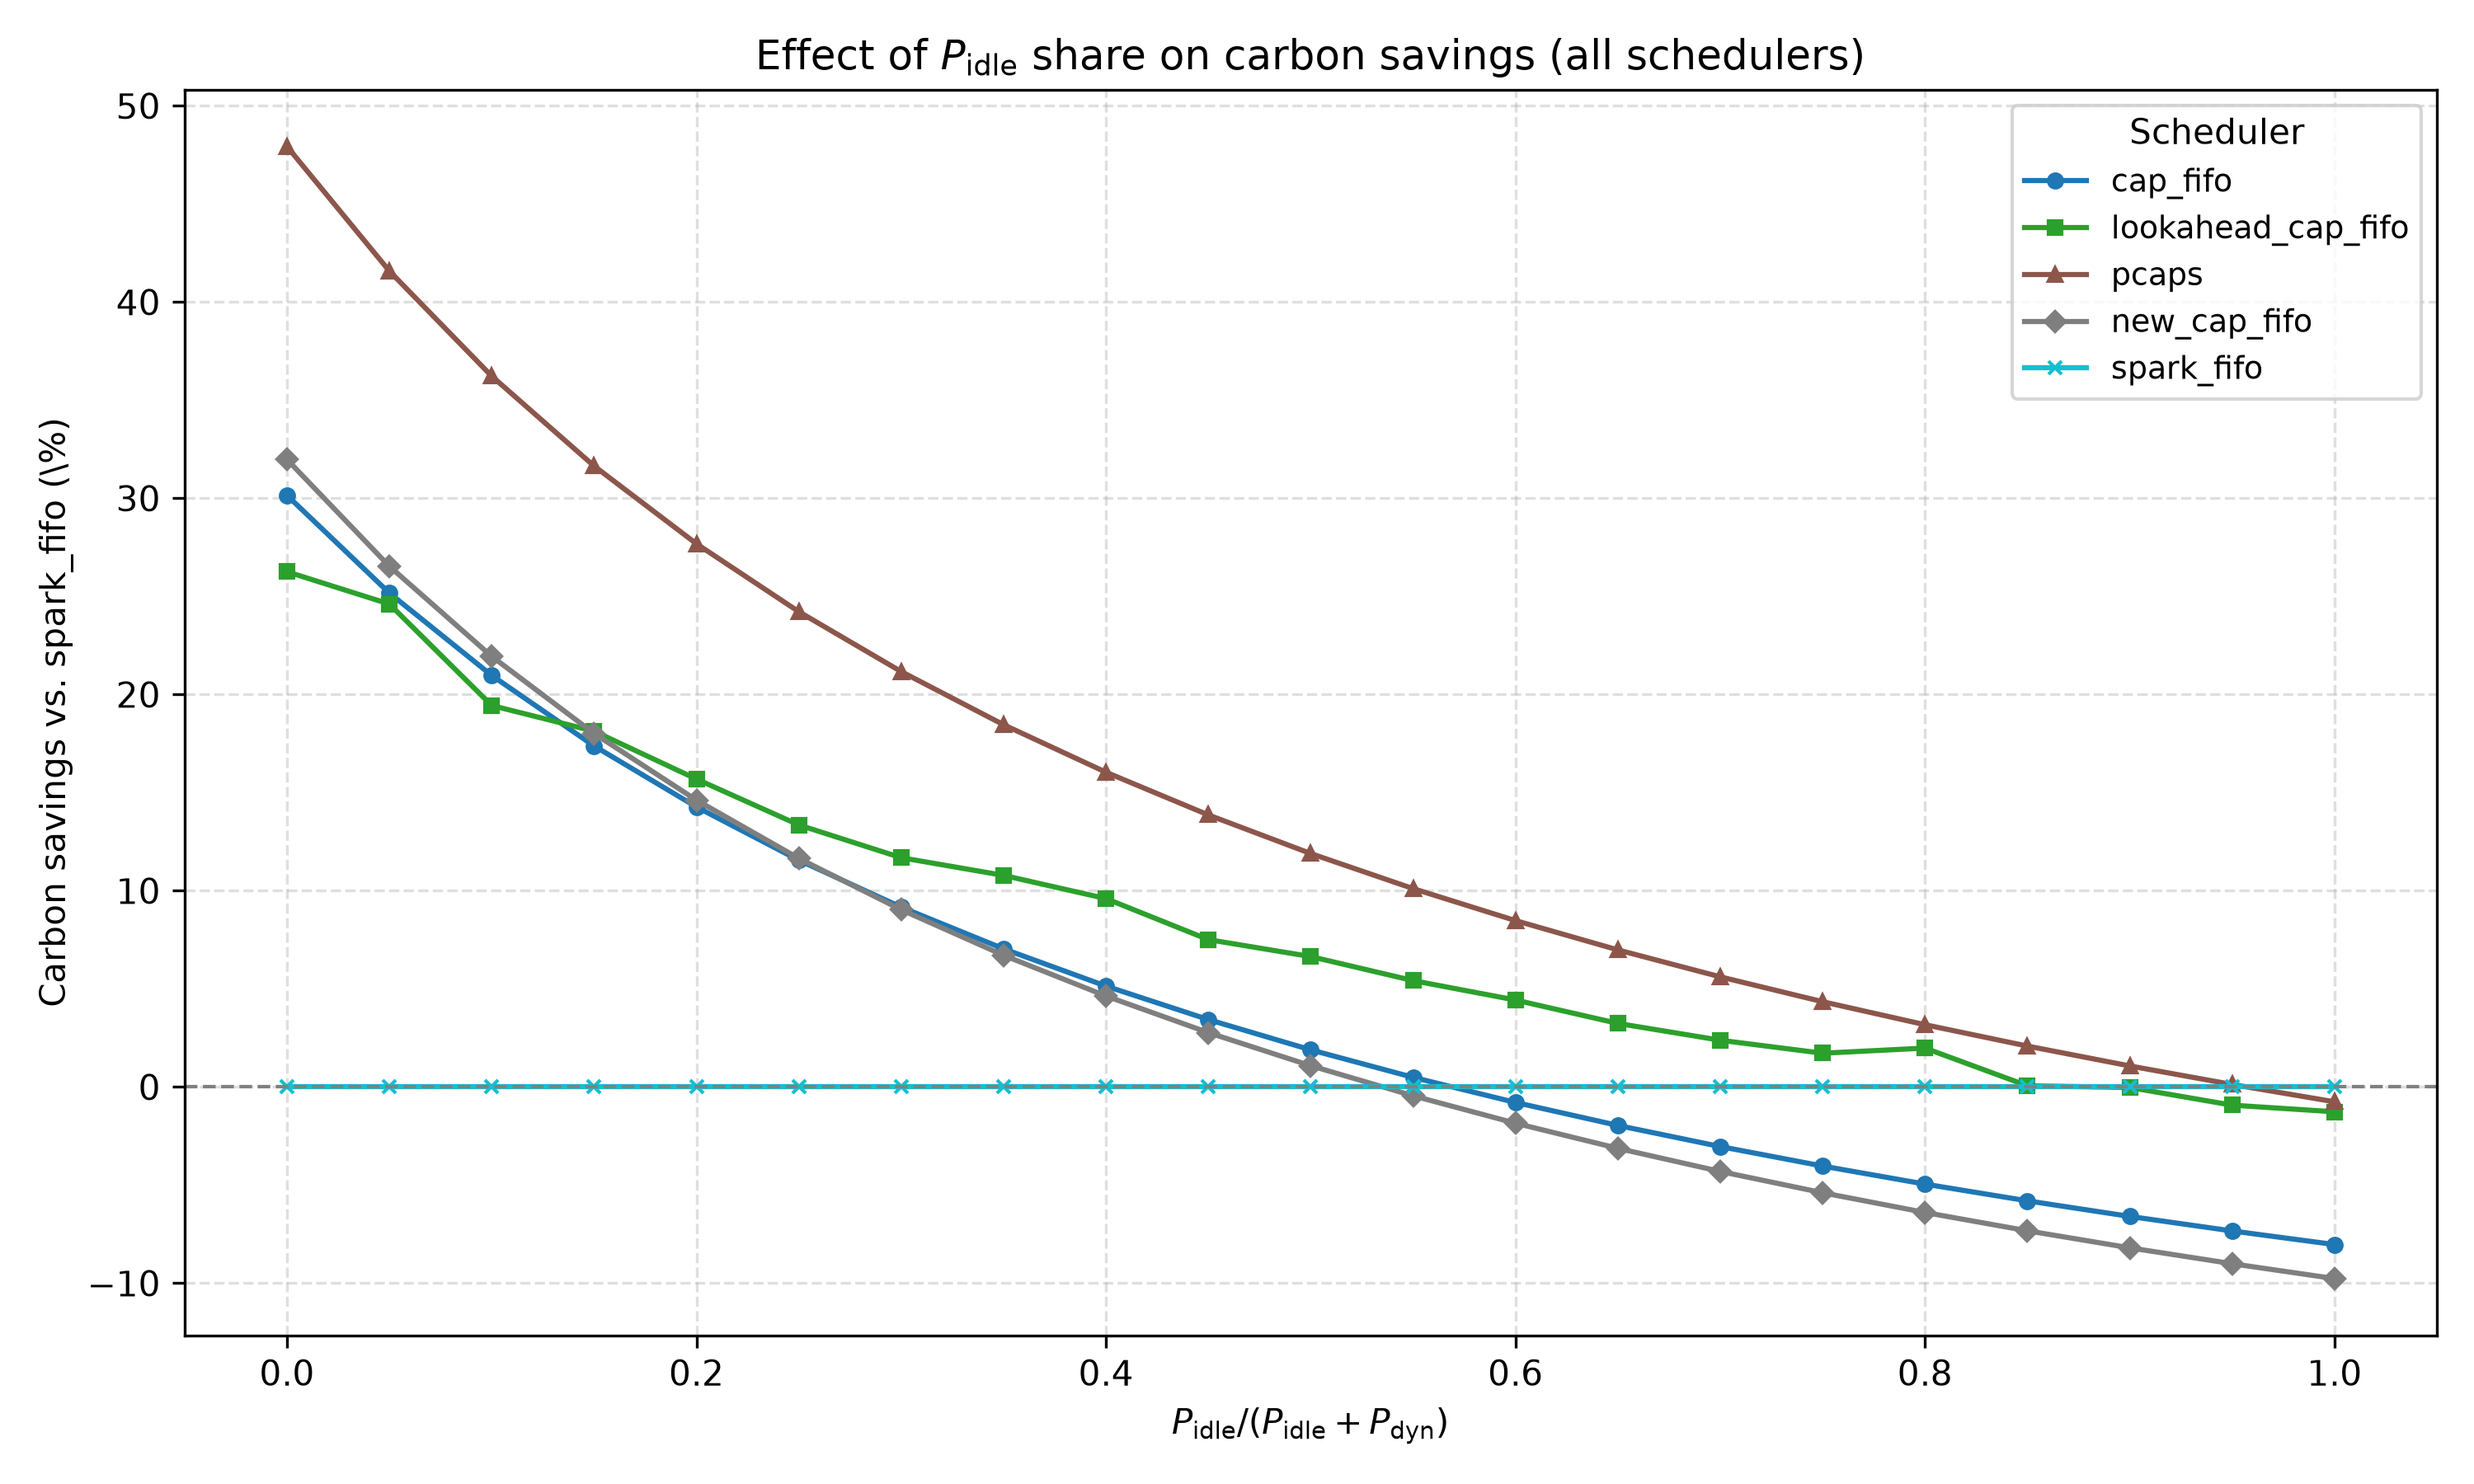
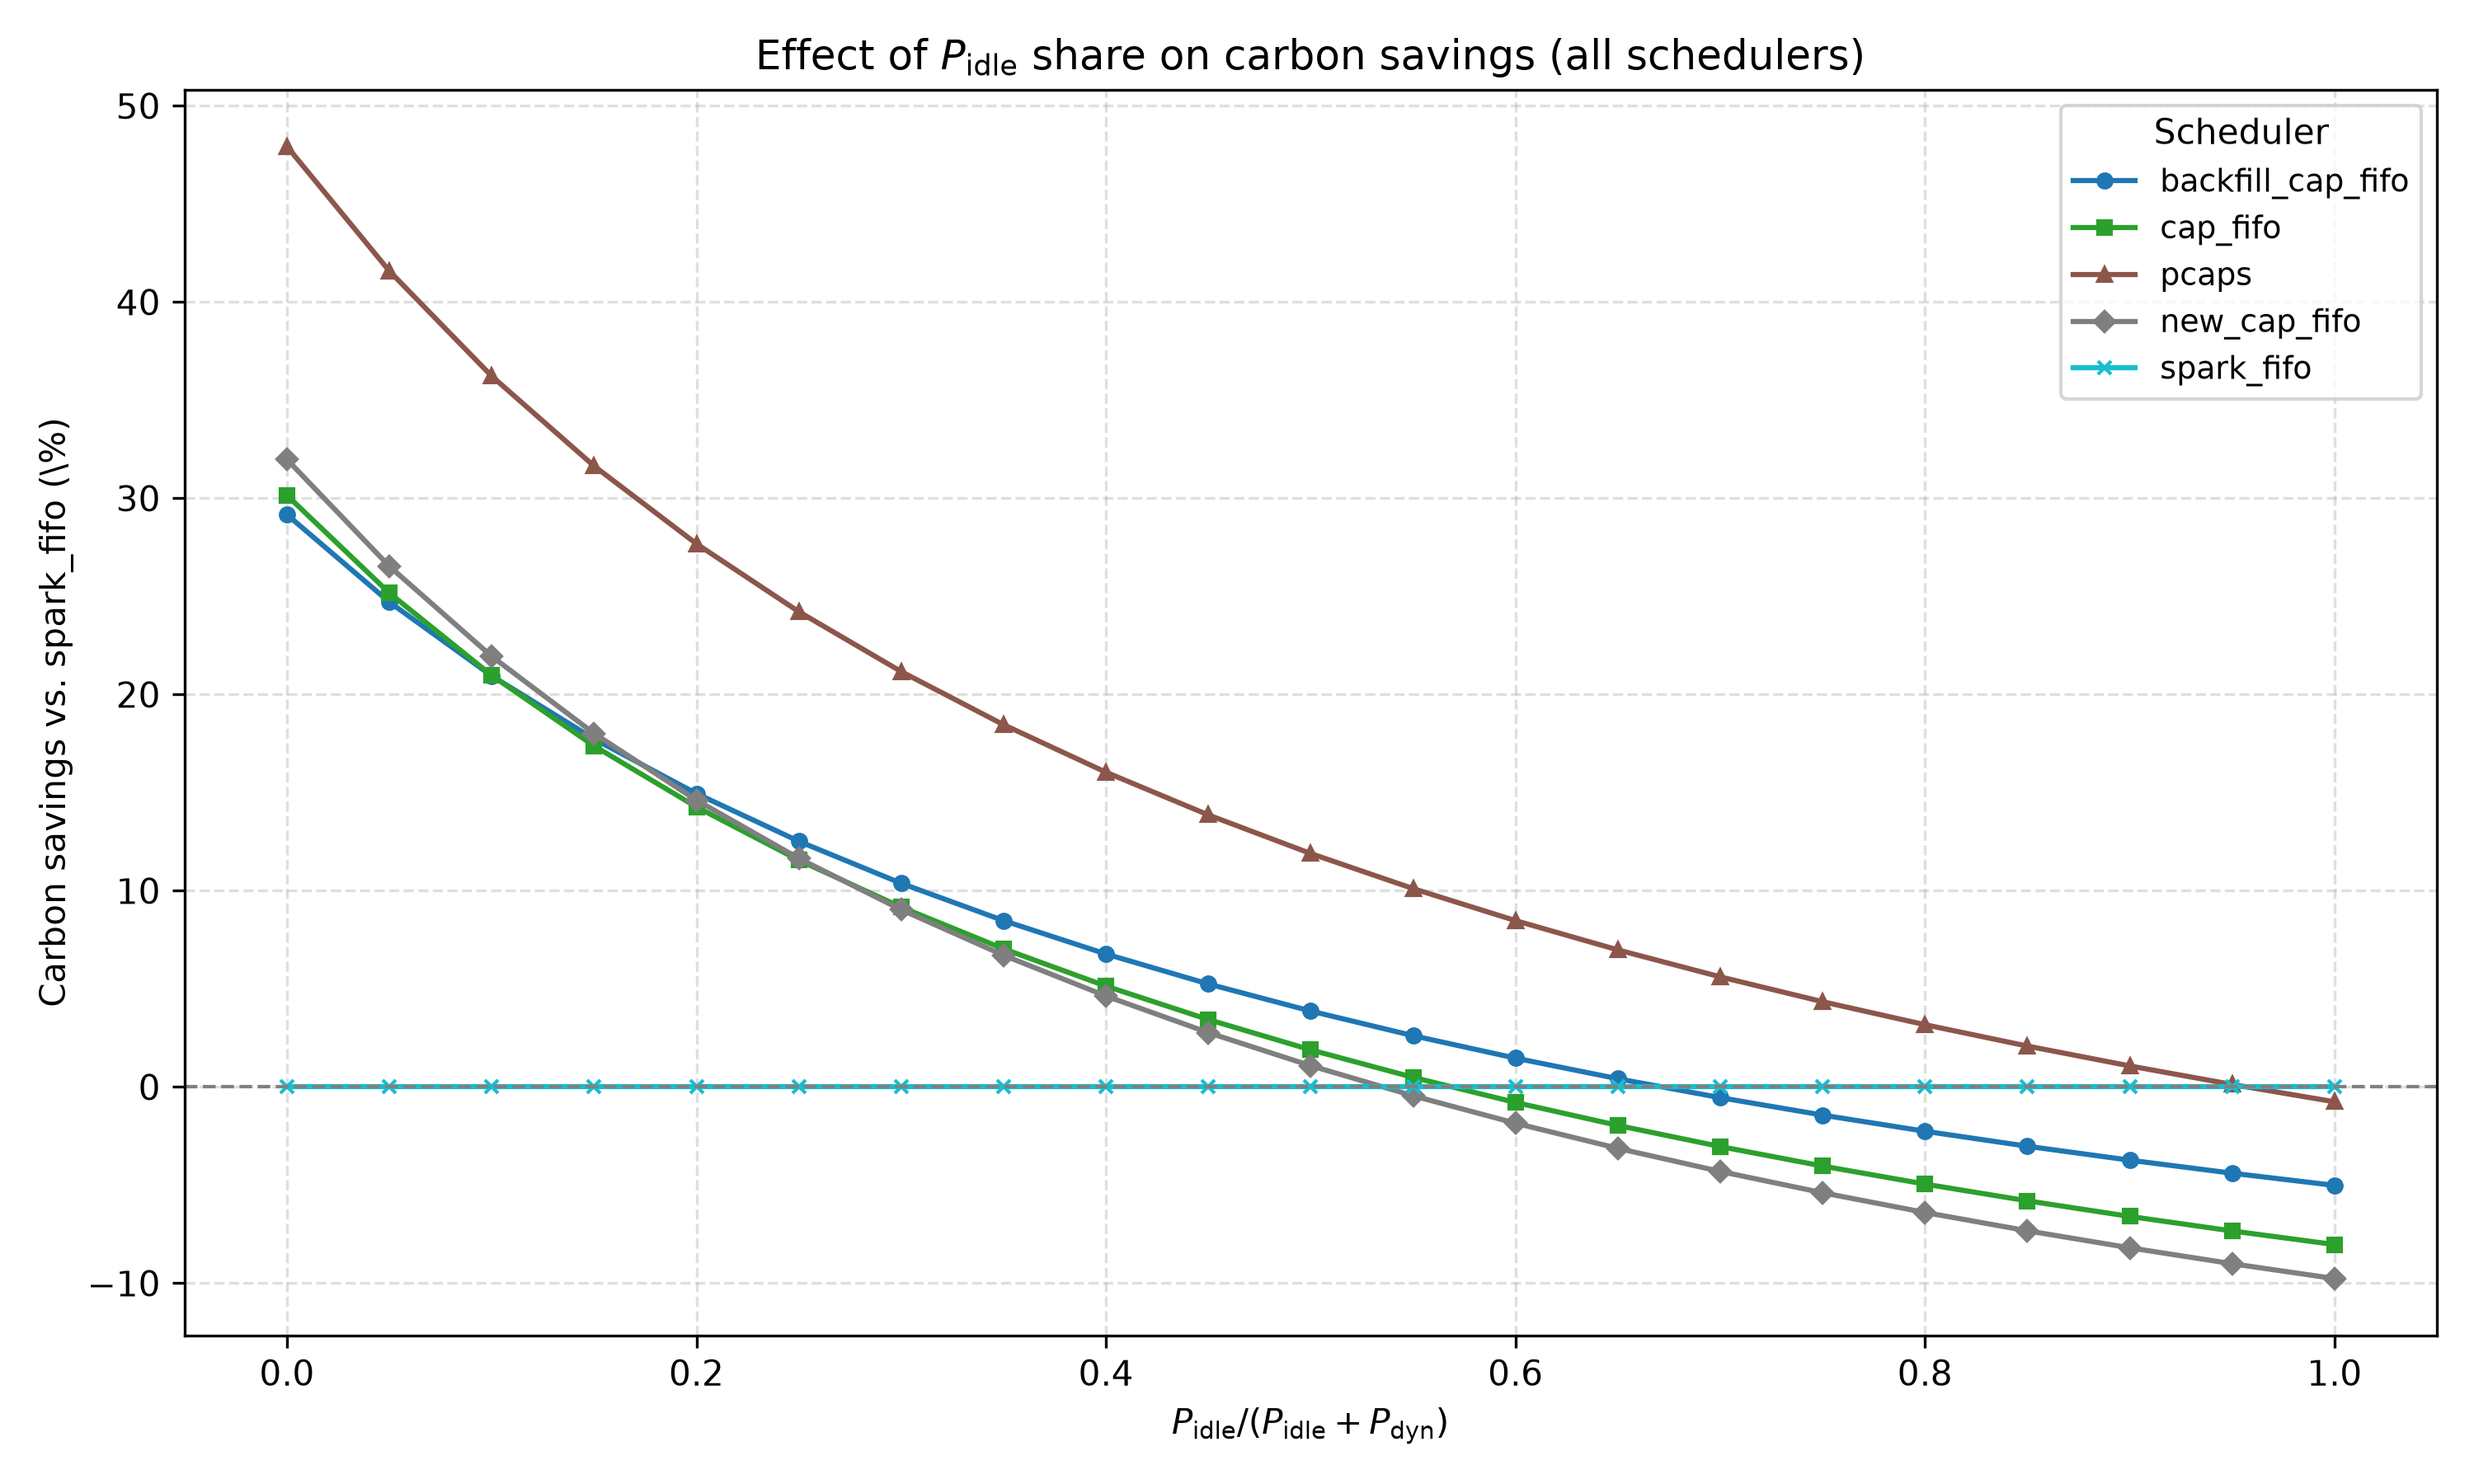
feat: power-aware FIFO backfilling

diff --git a/simulator/agents/backfill_cap_fifo_agent.py b/simulator/agents/backfill_cap_fifo_agent.py
@@ -1,0 +1,135 @@
+# backfill_cap_fifo_agent.py adds power-aware FIFO backfilling to new_cap_fifo.
+
+from agents.new_cap_fifo_agent import CarbonAgent as BaseCarbonAgent
+
+
+class BackfillCapFIFOAgent(BaseCarbonAgent):
+    """CAP FIFO that uses spare capacity for short, power-favorable jobs."""
+
+    def __init__(self, exec_cap, carbon_schedule, pidle=0.0, pdyn=1.0,
+                 max_backfill_work=120000.0, max_consecutive_waits=3):
+        super().__init__(
+            exec_cap=exec_cap,
+            carbon_schedule=carbon_schedule,
+            exec_lower_bound=min(20, exec_cap),
+        )
+        self.pidle = pidle
+        self.pdyn = pdyn
+        self.max_backfill_work = max_backfill_work
+        self.max_consecutive_waits = max_consecutive_waits
+        self.consecutive_waits = 0
+
+    def _carbon_at(self, current_time):
+        keys = sorted(self.carbon_schedule)
+        previous = [key for key in keys if key <= current_time]
+        if previous:
+            return self.carbon_schedule[previous[-1]]
+        return self.carbon_schedule[keys[0]]
+
+    def _remaining_work(self, node, exec_commit, moving_executors):
+        remaining = self.remaining_tasks(node, exec_commit, moving_executors)
+        if remaining <= 0:
+            return 0.0
+        tasks = node.tasks[node.next_task_idx:node.next_task_idx + remaining]
+        return float(sum(task.get_duration() for task in tasks))
+
+    def _first_ready_node(self, job_dag, frontier_nodes):
+        for node in job_dag.frontier_nodes:
+            if node in frontier_nodes:
+                return node
+        for node in frontier_nodes:
+            if node.job_dag == job_dag:
+                return node
+        return None
+
+    def _job_candidates(self, job_dags, frontier_nodes, exec_commit,
+                        moving_executors):
+        candidates = []
+        for index, job_dag in enumerate(job_dags):
+            if job_dag.name == 'dummy':
+                continue
+            node = self._first_ready_node(job_dag, frontier_nodes)
+            if node is None:
+                continue
+            work = self._remaining_work(node, exec_commit, moving_executors)
+            if work > 0:
+                candidates.append((index, job_dag, node, work))
+        return candidates
+
+    def _backfill_is_favorable(self, work, spare, current_time):
+        if work > self.max_backfill_work or spare <= 0:
+            return False
+        carbon = self._carbon_at(current_time)
+        # Backfill when its dynamic cost is lower than leaving the spare
+        # executors idle for an equivalent amount of work time. The factor
+        # allows high idle-power models to fill more aggressively.
+        dynamic_cost = self.pdyn * work * carbon
+        idle_avoided = self.pidle * spare * work * carbon
+        return dynamic_cost <= idle_avoided or self.pidle >= self.pdyn
+
+    def _source_action(self, node, num_source_exec):
+        available = max(int(self.last_available_cap), 0)
+        use_exec = min(num_source_exec, available)
+        if use_exec >= 1:
+            self.consecutive_waits = 0
+            return node, use_exec, False
+        if self.consecutive_waits >= self.max_consecutive_waits:
+            self.consecutive_waits = 0
+            return node, num_source_exec, False
+        self.consecutive_waits += 1
+        return None, num_source_exec, True
+
+    def get_action(self, obs):
+        job_dags, source_job, num_source_exec, \
+            frontier_nodes, executor_limits, exec_commit, \
+            moving_executors, action_map, current_time = obs
+
+        current_carbon, lower_carbon, upper_carbon = \
+            self.get_carbon_intensity(current_time)
+        self.L = lower_carbon
+        self.U = upper_carbon
+        self.exec_cap = self.compute_exec_cap(
+            current_carbon, lower_carbon, upper_carbon)
+        allocated = self.count_allocated_executors(
+            job_dags, exec_commit, moving_executors)
+        self.last_allocated_executors = allocated
+        self.last_available_cap = self.exec_cap - allocated
+
+        candidates = self._job_candidates(
+            job_dags, frontier_nodes, exec_commit, moving_executors)
+        if not candidates:
+            if job_dags and num_source_exec > 0:
+                if self.consecutive_waits >= self.max_consecutive_waits:
+                    self.consecutive_waits = 0
+                    return None, num_source_exec, False
+                self.consecutive_waits += 1
+                return None, num_source_exec, True
+            return None, num_source_exec, False
+
+        primary_index, primary_job, primary_node, primary_work = candidates[0]
+        if source_job is not None:
+            source_node = self._first_ready_node(source_job, frontier_nodes)
+            if source_node is not None:
+                return self._source_action(source_node, num_source_exec)
+
+        available = max(int(self.last_available_cap), 0)
+        primary_remaining = min(primary_work, num_source_exec, available)
+        if primary_remaining >= 1:
+            self.consecutive_waits = 0
+            return primary_node, int(primary_remaining), False
+
+        # The FIFO head cannot use the available pool. Use a short later job
+        # only when it is power-favorable; otherwise wait for the head.
+        spare = min(num_source_exec, max(available, 0))
+        for index, job_dag, node, work in candidates[1:]:
+            if index <= primary_index:
+                continue
+            if self._backfill_is_favorable(work, spare, current_time):
+                self.consecutive_waits = 0
+                return node, min(int(work), num_source_exec, spare), False
+
+        if self.consecutive_waits >= self.max_consecutive_waits:
+            self.consecutive_waits = 0
+            return primary_node, min(int(primary_work), num_source_exec), False
+        self.consecutive_waits += 1
+        return None, num_source_exec, True

diff --git a/simulator/test.py b/simulator/test.py
@@ -18,6 +18,7 @@ from agents.green_hadoop_agent import GreenHadoopThetaAgent
 from agents.new_cap_fifo_agent import CarbonAgent as NewCarbonAgent
 from agents.dynamic_b_cap_fifo_agent import DynamicBCapFIFOAgent
 from agents.lookahead_cap_fifo_agent import LookaheadCapFIFOAgent
+from agents.backfill_cap_fifo_agent import BackfillCapFIFOAgent
 from agents.weighted_cap_fifo_agent import CarbonPowerAgent as WeightedCapFIFOAgent
 from agents.new_cap_heuristic_agent import CarbonPartitionAgent as NewCarbonPartitionAgent
 from agents.new_cap_decima_agent import CarbonActorAgent as NewCarbonActorAgent
@@ -56,11 +57,11 @@ power_models = [
 # with the legacy dynamic-only model.
 power_aware_schemes = {
     'cap_power', 'weighted_cap_fifo', 'dynamic_b_cap_fifo',
-    'lookahead_cap_fifo'
+    'lookahead_cap_fifo', 'backfill_cap_fifo'
 }
 carbon_aware_schemes = {
     'cap_fifo', 'cap_partition', 'cap_power',
-    'dynamic_b_cap_fifo', 'lookahead_cap_fifo',
+    'dynamic_b_cap_fifo', 'lookahead_cap_fifo', 'backfill_cap_fifo',
     'new_cap_fifo', 'weighted_cap_fifo', 'new_cap_partition',
     'new_cap_decima', 'new_pcaps',
     'pcaps', 'cap_decima', 'green_hadoop'
@@ -152,6 +153,10 @@ def create_agent(scheme, power_model, experiment_seed):
             pidle=pidle, pdyn=pdyn)
     if scheme == 'lookahead_cap_fifo':
         return LookaheadCapFIFOAgent(
+            exec_cap=args.exec_cap, carbon_schedule=carbon_dict,
+            pidle=pidle, pdyn=pdyn)
+    if scheme == 'backfill_cap_fifo':
+        return BackfillCapFIFOAgent(
             exec_cap=args.exec_cap, carbon_schedule=carbon_dict,
             pidle=pidle, pdyn=pdyn)
     if scheme in ('new_cap_partition'):
